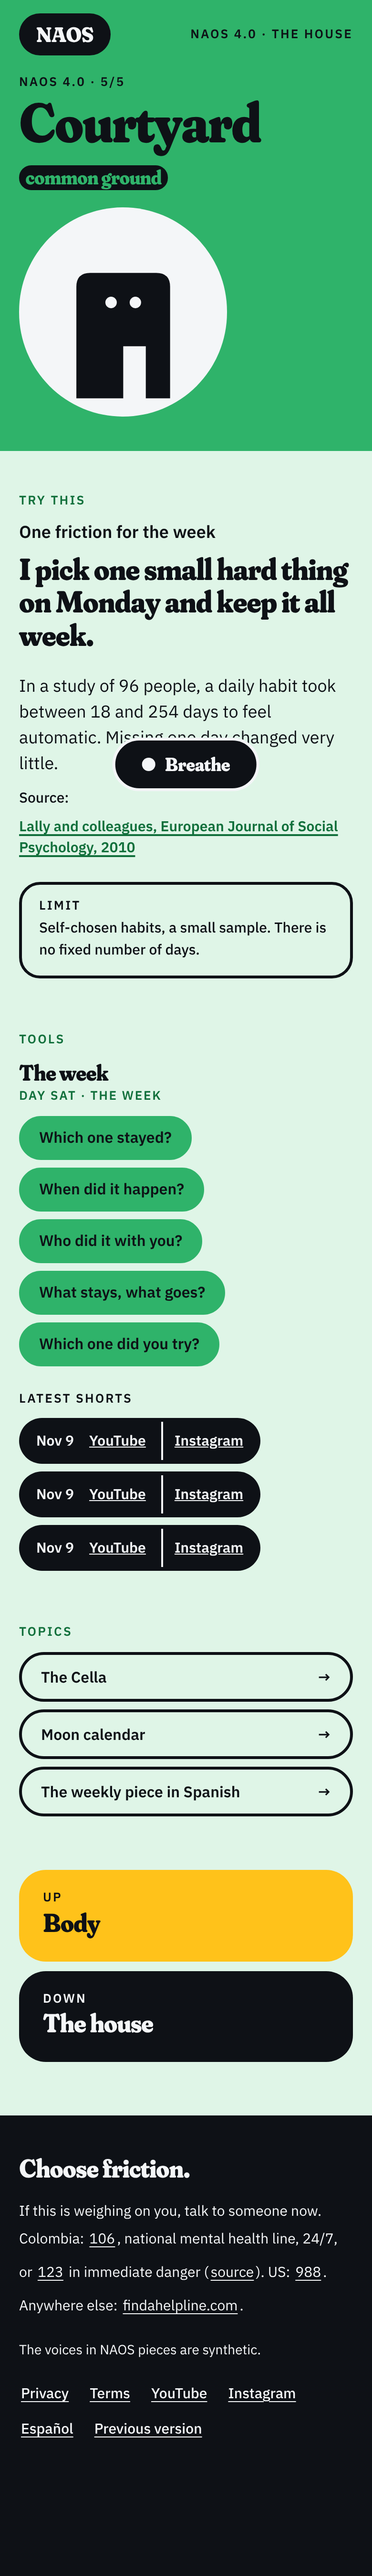
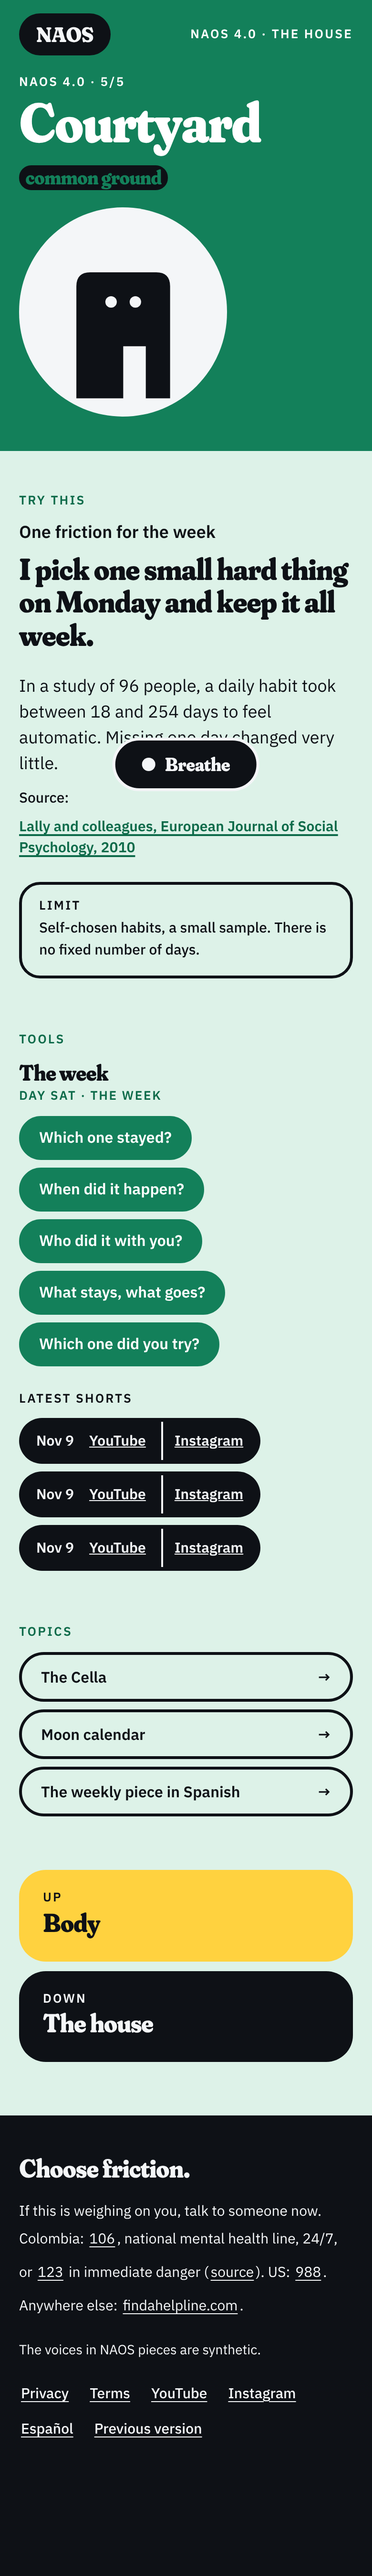
v4: paleta medida con simulación de daltonismo (marca v7)

Changed region(s): [[0.0, 0.0, 1.0, 0.1869], [0.0308, 0.7166, 0.9538, 0.7789], [0.0308, 0.4362, 0.6154, 0.5297]]

diff --git a/v4/assets/v4.js b/v4/assets/v4.js
@@ -7,8 +7,8 @@
   var REDUCE = window.matchMedia && window.matchMedia("(prefers-reduced-motion: reduce)").matches;
   var ORDEN = ["tenderness", "emptiness", "saturation", "body", "courtyard"];
   var VIEJAS = { bedroom: "emptiness", windows: "emptiness", kitchen: "saturation", stairs: "body", table: "tenderness", door: "tenderness", courtyard: "courtyard" };
-  var COL = { tenderness: "#FF5C9E", emptiness: "#4664FF", saturation: "#FF5B1F", body: "#FFC21A", courtyard: "#2FB36A" };
-  var ON = { tenderness: "#0E1116", emptiness: "#FFFFFF", saturation: "#0E1116", body: "#0E1116", courtyard: "#0E1116" };
+  var COL = { tenderness: "#FF86B0", emptiness: "#3F4FE0", saturation: "#EA4A14", body: "#FFD23F", courtyard: "#13805A" };
+  var ON = { tenderness: "#0E1116", emptiness: "#FFFFFF", saturation: "#0E1116", body: "#0E1116", courtyard: "#FFFFFF" };
   var OJOS = { tenderness: "happy", emptiness: "closed", saturation: "tiltin", body: "chevron", courtyard: "dot" };
   var DIAS_EN = ["MON", "TUE", "WED", "THU", "FRI", "SAT", "SUN"];
 

diff --git a/v4/assets/v4.css b/v4/assets/v4.css
@@ -14,11 +14,11 @@
   /* por defecto, el campo de la portada */
   --c: var(--ink); --t: var(--crema); --h: var(--ink); --on: var(--crema);
 }
-.s-tenderness { --c: #FF5C9E; --t: #FFE6F0; --h: #B8145A; --on: #0E1116; }
-.s-emptiness  { --c: #4664FF; --t: #E6EAFF; --h: #2A3FD6; --on: #FFFFFF; }
-.s-saturation { --c: #FF5B1F; --t: #FFE9DE; --h: #C23A06; --on: #0E1116; }
-.s-body       { --c: #FFC21A; --t: #FFF3CF; --h: #8A5A00; --on: #0E1116; }
-.s-courtyard  { --c: #2FB36A; --t: #DFF5E7; --h: #12703C; --on: #0E1116; }
+.s-tenderness { --c: #FF86B0; --t: #FFE9F1; --h: #B8145A; --on: #0E1116; }
+.s-emptiness  { --c: #3F4FE0; --t: #E6E9FF; --h: #2A3AC4; --on: #FFFFFF; }
+.s-saturation { --c: #EA4A14; --t: #FFE8DD; --h: #B23406; --on: #0E1116; }
+.s-body       { --c: #FFD23F; --t: #FFF5D1; --h: #8A5A00; --on: #0E1116; }
+.s-courtyard  { --c: #13805A; --t: #DDF2E8; --h: #0E6B4A; --on: #FFFFFF; }
 
 *, *::before, *::after { box-sizing: border-box; }
 html { -webkit-text-size-adjust: 100%; }
